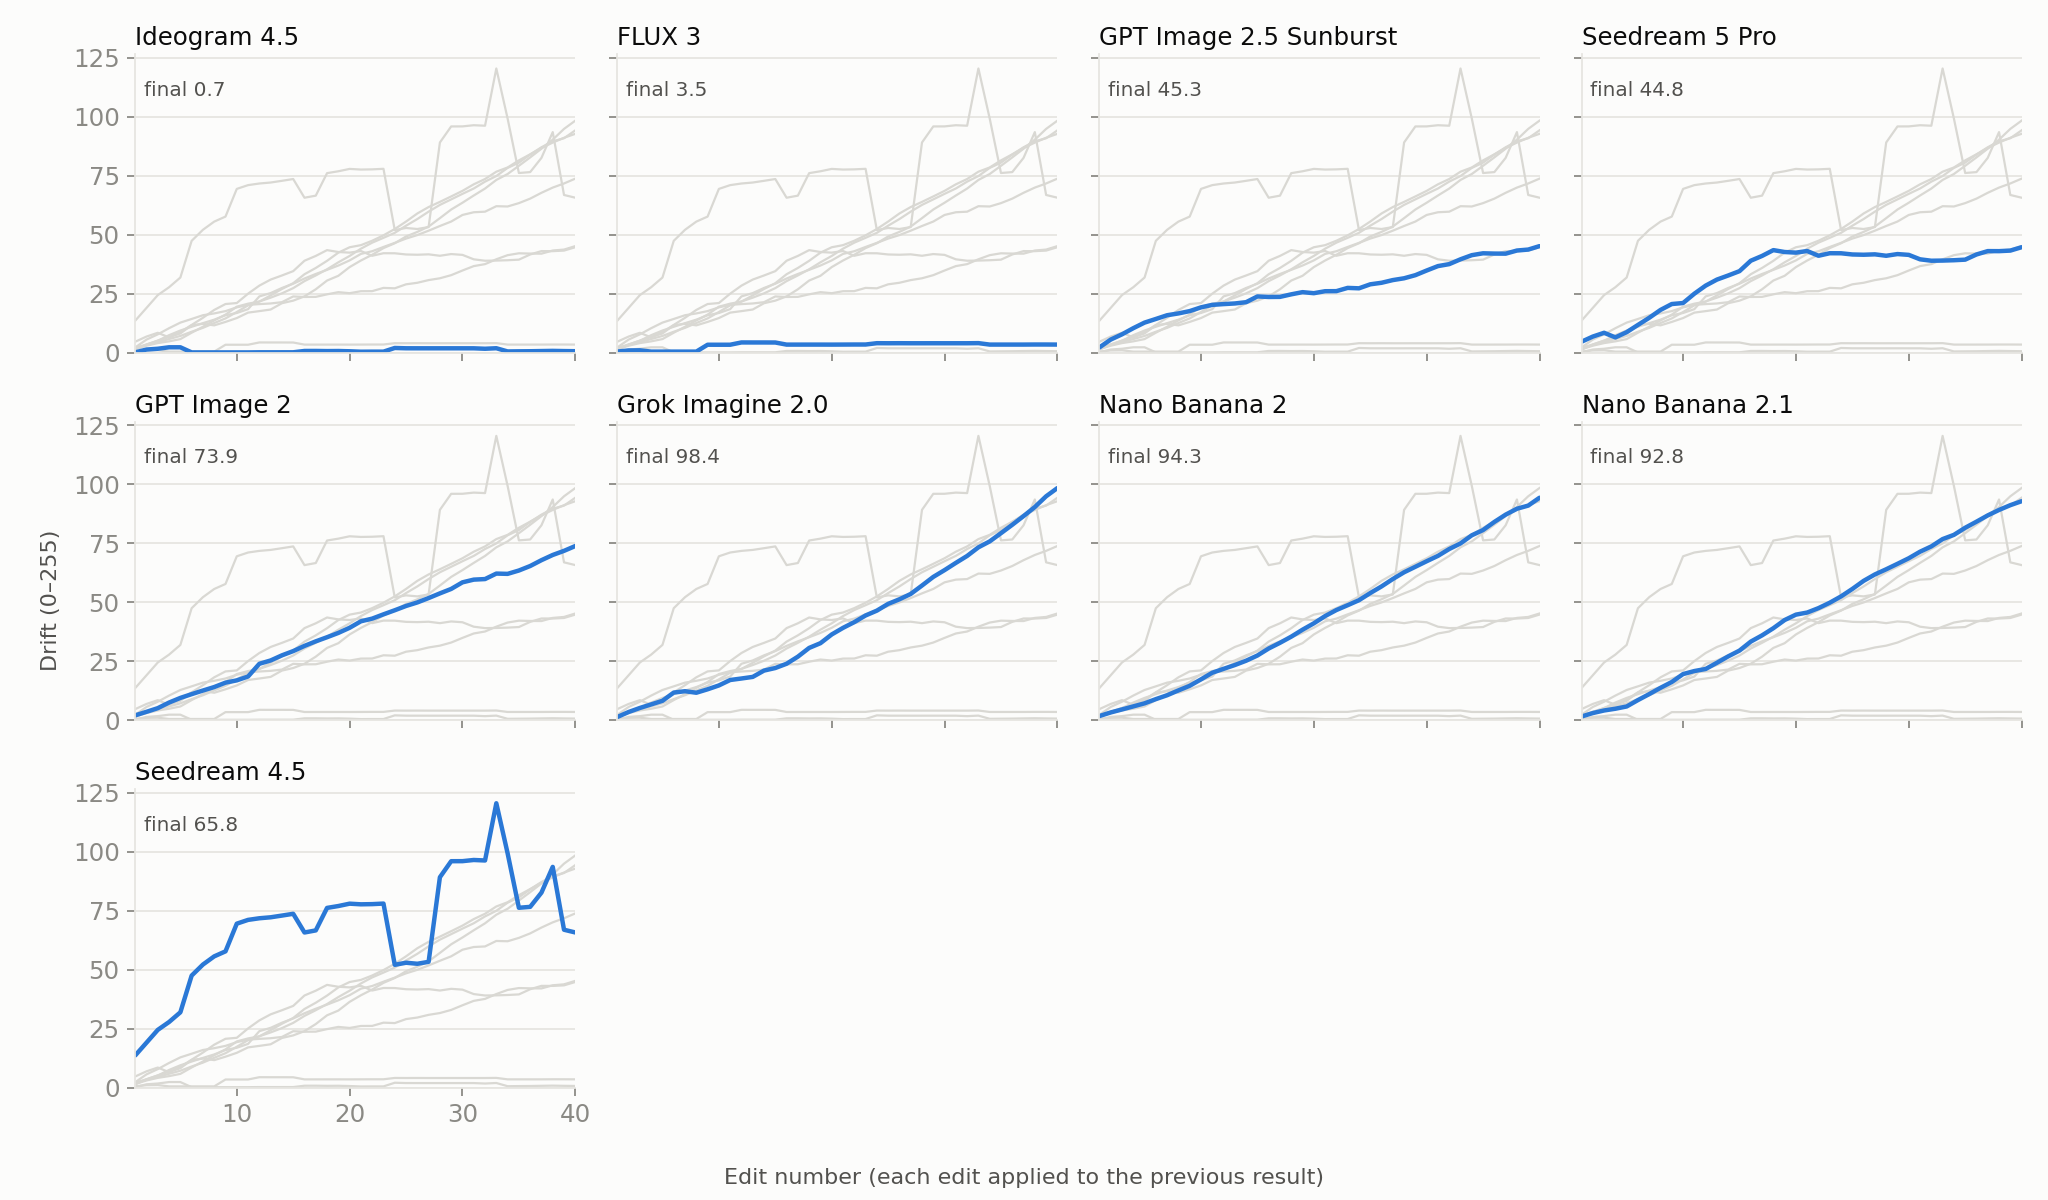
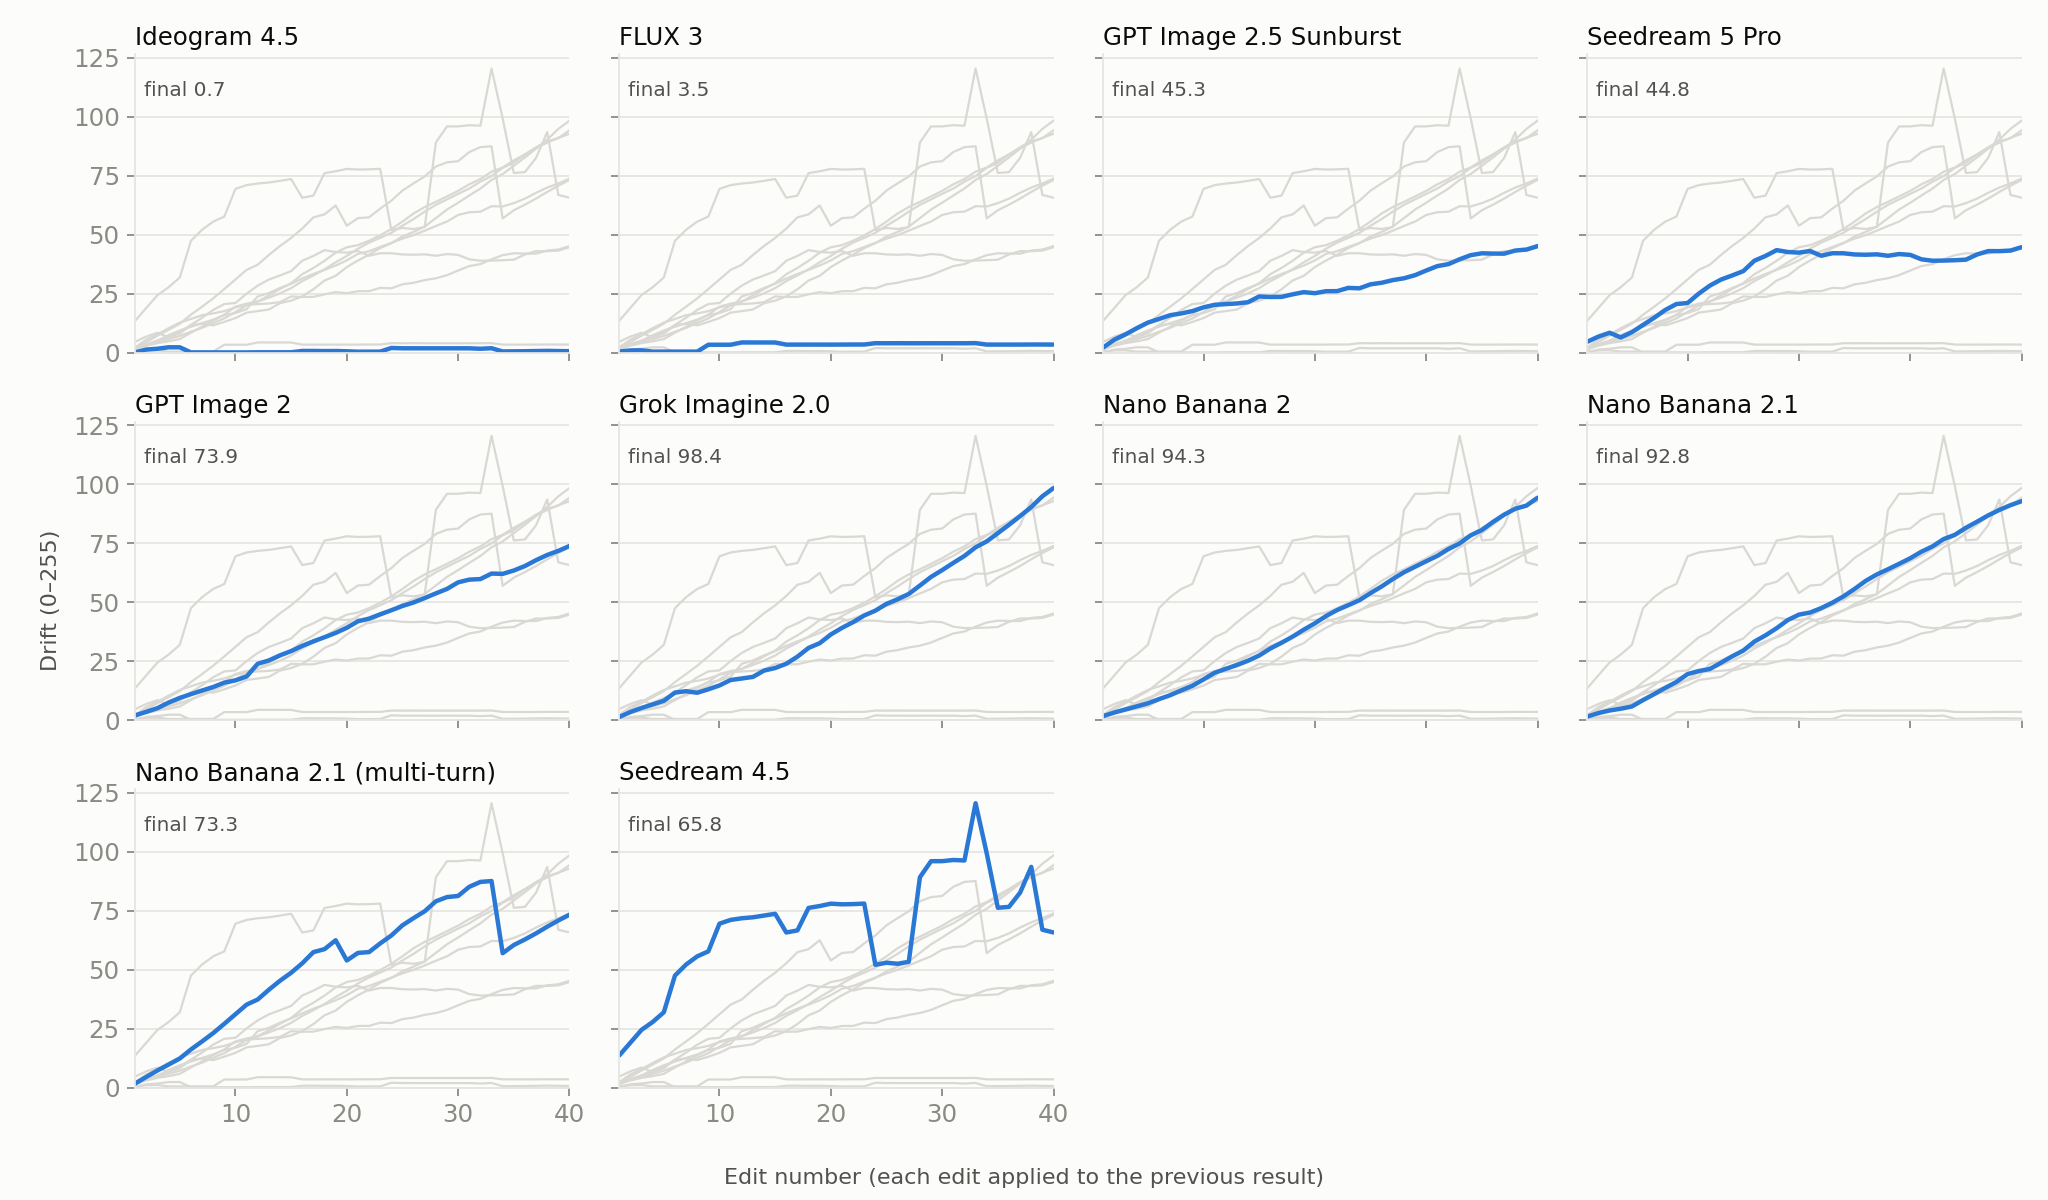
README, leaderboard and social preview: add multi-turn Nano Banana 2.1 run, contributors section

diff --git a/README.md b/README.md
@@ -18,9 +18,12 @@ The score uses the average over all 40 edits, not just the last one, so a model 
 | 6 | Grok Imagine 2.0 | xAI | plain instruction | **58.5** | 41.5 | 98.4 | 2.45 |
 | 7 | Nano Banana 2 | Google | plain instruction | **56.0** | 44.0 | 94.3 | 2.46 |
 | 8 | Nano Banana 2.1 | Google | plain instruction | **54.9** | 45.1 | 92.8 | 2.46 |
-| 9 | Seedream 4.5 | ByteDance | plain instruction | **31.9** | 68.1 | 65.8 | 1.41 |
+| 9 | Nano Banana 2.1 (multi-turn) ¹ | Google | plain instruction, multi-turn | **48.5** | 51.5 | 73.3 | 1.90 |
+| 10 | Seedream 4.5 | ByteDance | plain instruction | **31.9** | 68.1 | 65.8 | 1.41 |
 
-*Milk benchmark, October 2026. All 9 ranked models completed all 40 edits.*
+*Milk benchmark, October 2026. All 10 ranked runs completed all 40 edits.*
+
+¹ Run as one server-side conversation, as Google recommends for iterating on images, instead of separate requests. Contributed by [Tom Beckenham](https://github.com/tombeckenham) — [how it was run](docs/methods/nano-banana-multiturn.md).
 
 **Partial runs (not ranked).** Qwen Image 3 and GPT Image 2.5 Flare did not complete the chain, so they are not scored against full runs; their images are in [`results/milk-partial/`](results/milk-partial/). Qwen Image 3 stopped after 8 edits at drift 24.7 (FLUX 3 at the same edit: 0.5, Nano Banana 2.1: 13.7). GPT Image 2.5 Flare's content filter refused its own output from edit 12 onward (160+ attempts); at edit 11 it was at drift 19.4 (FLUX 3: 3.5, Nano Banana 2.1: 20.9).
 
@@ -151,6 +154,7 @@ Each step in `scores.json` records the registration method used, the transform, 
 - **Masks alone don't stop drift.** GPT Image 2.5 Sunburst received a mask on every edit and still re-rendered the whole frame each time: 45.3 drift after 40 edits. The mask controls where the requested change lands, not what happens to everything else.
 - **Pixel restoration wins.** Ideogram 4.5's high-precision mode copies untouched pixels back after each edit, which is why it stays at 0.7.
 - **Plain-instruction models drift linearly.** Nano Banana 2, Nano Banana 2.1 and Grok Imagine 2.0 lose about 2.5 points per edit, almost identically.
+- **Google's recommended multi-turn mode doesn't save Nano Banana 2.1.** Running the chain as one conversation, so the model works from its own stored state, scores 48.5 against 54.9 for separate requests, and the same block texture appears on the wall ([details](docs/methods/nano-banana-multiturn.md)).
 - **Seedream 4.5 drifts erratically,** peaking above 120 mid-chain and partly recovering, which is why it ranks last on the whole-chain score despite a mid-table final frame.
 
 ## Limitations
@@ -158,6 +162,12 @@ Each step in `scores.json` records the registration method used, the transform, 
 - **Different interfaces.** Masked, boxed and plain-instruction models get different inputs. That's deliberate: the benchmark compares each model's best documented precision-edit method, not identical inputs.
 - **Small n.** One photo, one chain per model, no seed sweep. More benchmark photos are coming.
 - **Drift isn't edit quality.** It measures preservation of untouched areas, not whether each edit was done well. The videos and the full image set show edit quality.
+
+## Contributors
+
+- [Tom Beckenham](https://github.com/tombeckenham): Nano Banana 2.1 multi-turn run ([#1](https://github.com/MegaTroll222/edit-drift/pull/1)).
+
+Have a model, a setting or a method we should test? Open a pull request with your run folder (`step01…step40`, `meta.json`) and written instructions for how you called the model. Please don't include provider code or keys.
 
 ## Credit
 

diff --git a/docs/charts/results.md b/docs/charts/results.md
@@ -8,4 +8,5 @@
 | 6 | Grok Imagine 2.0 | xAI | plain instruction | **58.5** | 41.5 | 98.4 | 2.45 | 0 / 40 |
 | 7 | Nano Banana 2 | Google | plain instruction | **56.0** | 44.0 | 94.3 | 2.46 | 0 / 40 |
 | 8 | Nano Banana 2.1 | Google | plain instruction | **54.9** | 45.1 | 92.8 | 2.46 | 0 / 40 |
-| 9 | Seedream 4.5 | ByteDance | plain instruction | **31.9** | 68.1 | 65.8 | 1.41 | 0 / 40 |
+| 9 | Nano Banana 2.1 (multi-turn) | Google | plain instruction, multi-turn | **48.5** | 51.5 | 73.3 | 1.90 | 0 / 40 |
+| 10 | Seedream 4.5 | ByteDance | plain instruction | **31.9** | 68.1 | 65.8 | 1.41 | 0 / 40 |
